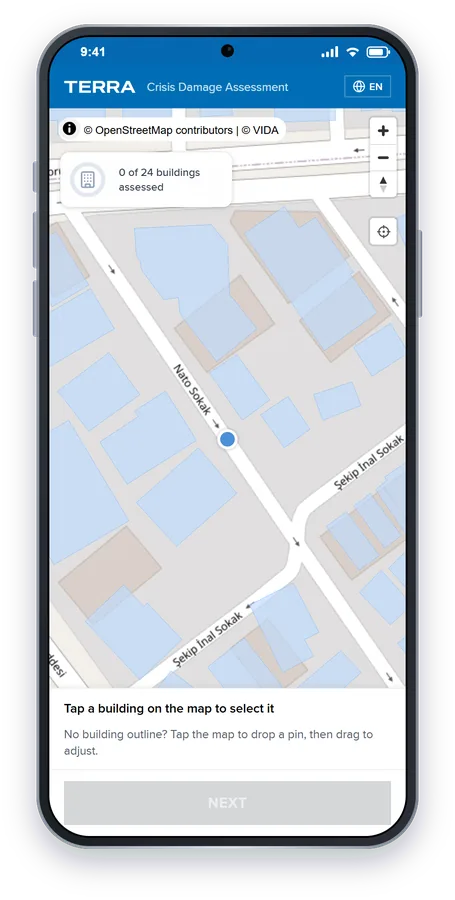
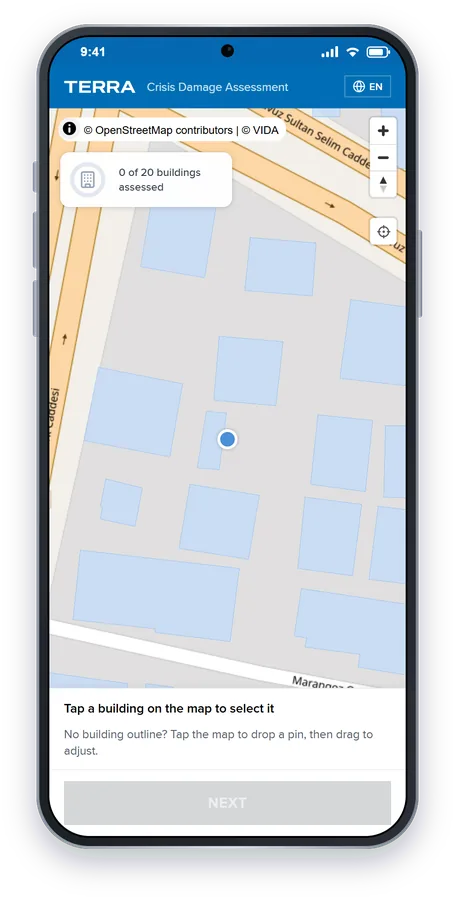
docs: recapture reporter map screens at the best-aligned spot

diff --git a/scripts/guide-images/README.md b/scripts/guide-images/README.md
@@ -35,7 +35,7 @@ To frame the map on Antakya, it filters `/reports` responses **inside its own br
 
 ## Source screenshots
 
-`capture.mjs flow` captures the reporter's map screens. They're taken at Nato Sokak, Antakya, where the building footprints line up well with the basemap.
+`capture.mjs flow` captures the reporter's map screens. They are taken off Yavuz Sultan Selim Caddesi, Antakya: the spot (out of 62 scouted) where the footprints leave the least OSM building area uncovered.
 
 The photo, damage, survey and confirmation screens, and the admin screens, come from the earlier visual-guide capture run. Getting past the photo step needs a real upload, which would write to the live photo bucket.
 
